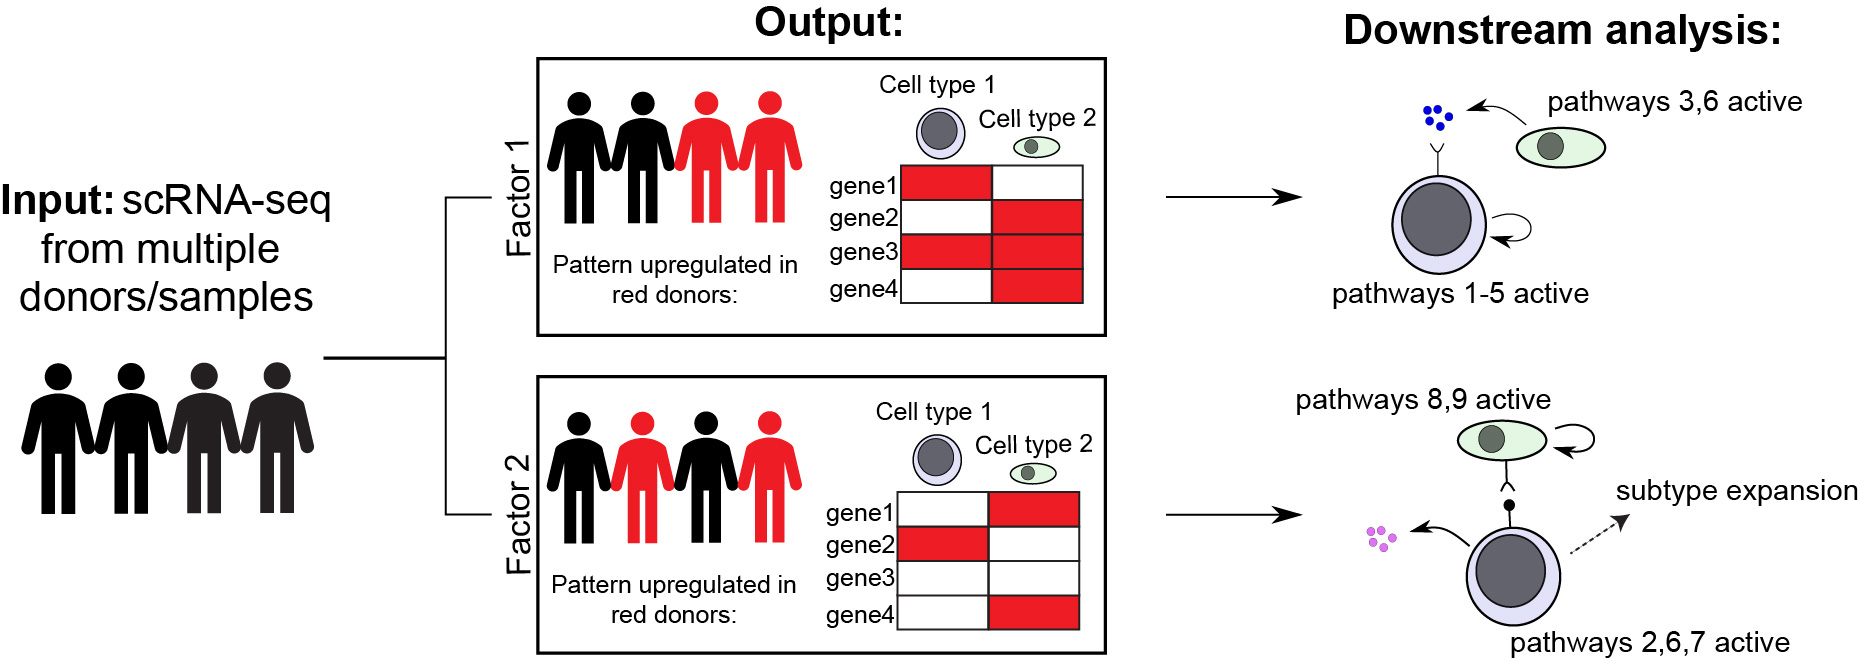
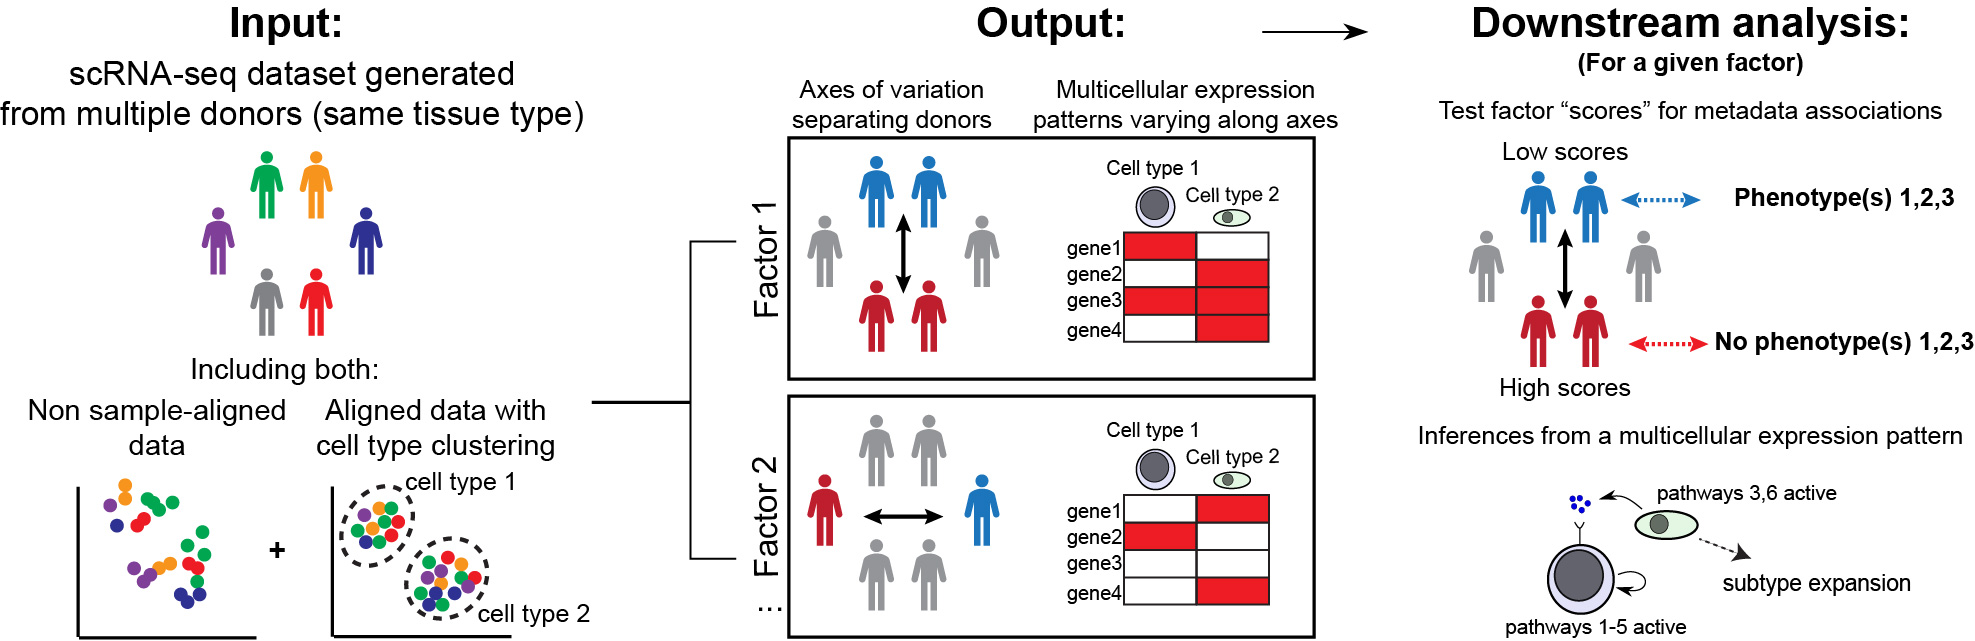
see changelog

diff --git a/CHANGELOG.md b/CHANGELOG.md
@@ -1,5 +1,13 @@
 ## Upcoming
 
+## [1.0.3] - 2023-01-23
+
+### Changed
+- Enabled `compute_LR_interact` to run when data contains alternate gene symbols
+- Added warning/catch in `plot_loadings_annot` if no genes are significant
+- Fixed bug in `determine_ranks_tucker` with variance scaling in wrong order
+- Updated README figure
+
 ## [1.0.2] - 2022-03-23
 
 ### Added
